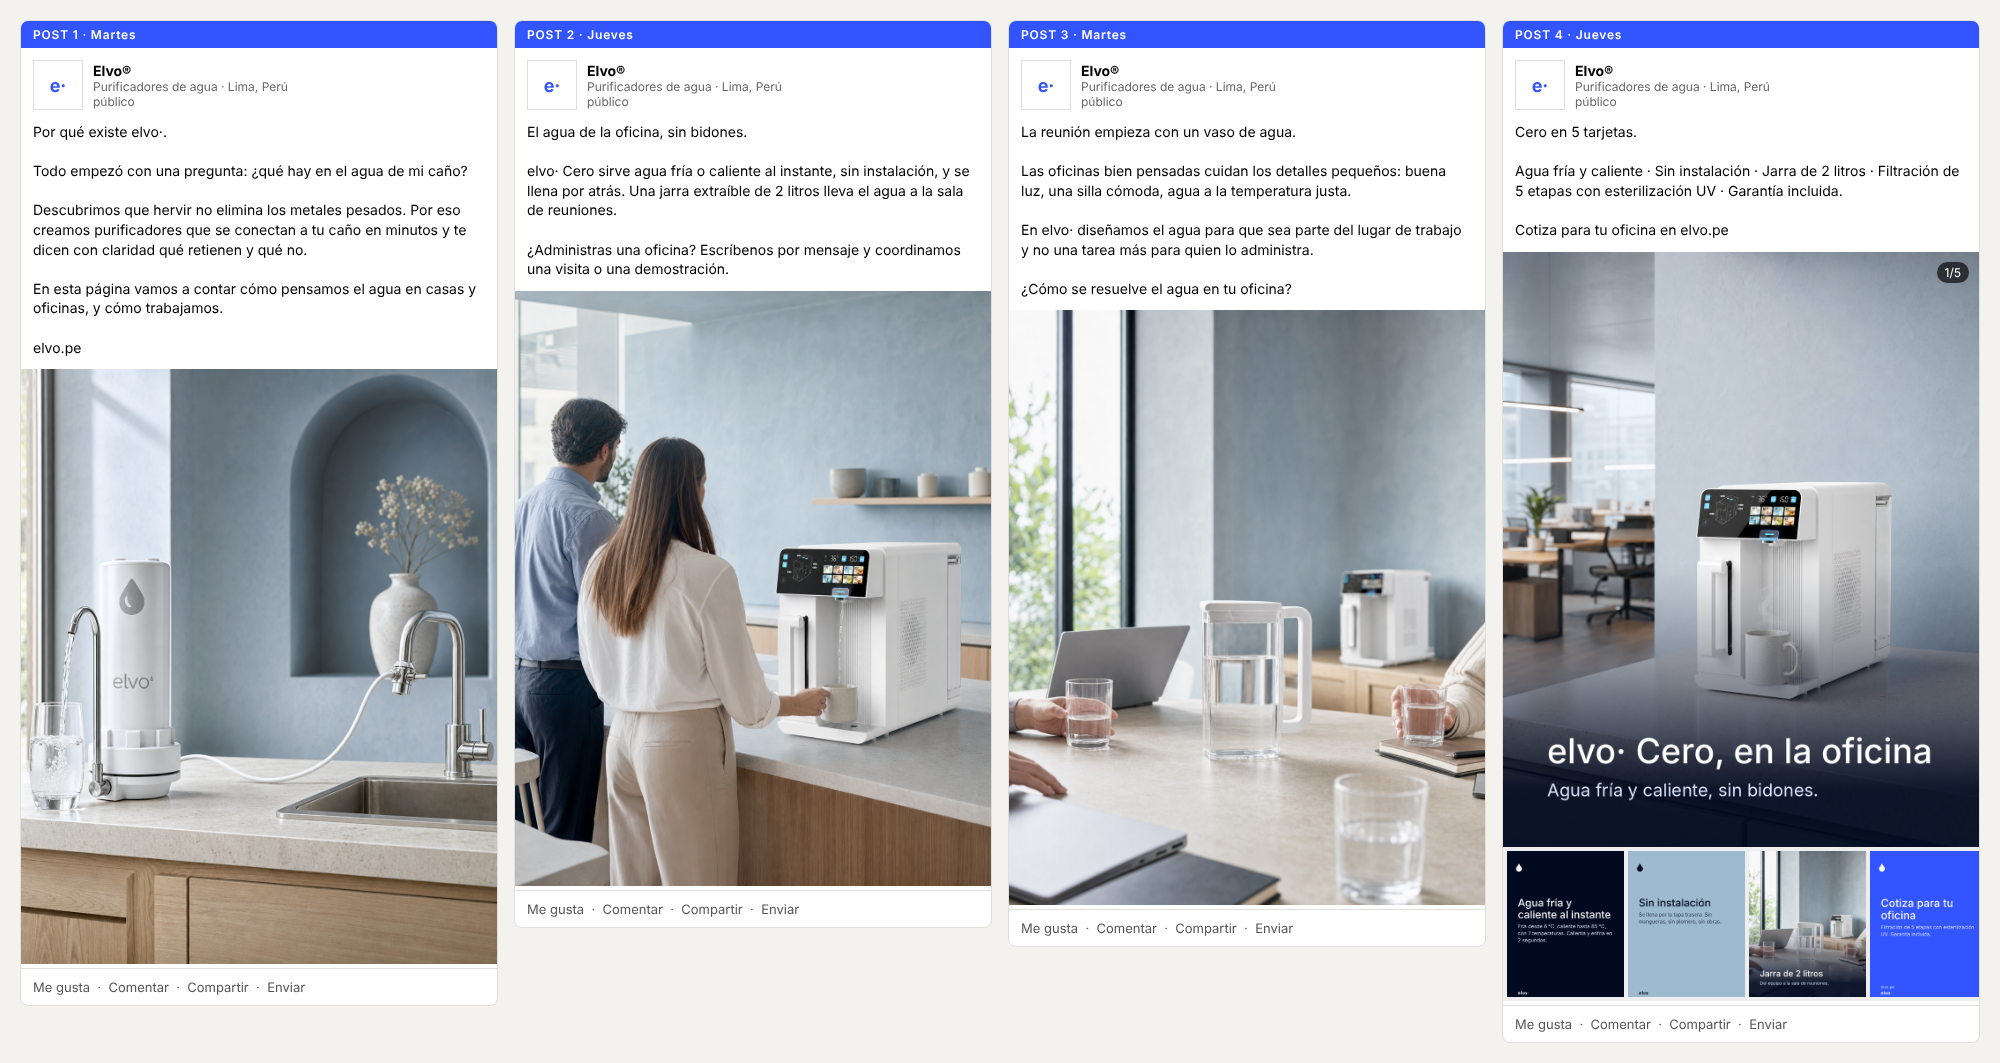
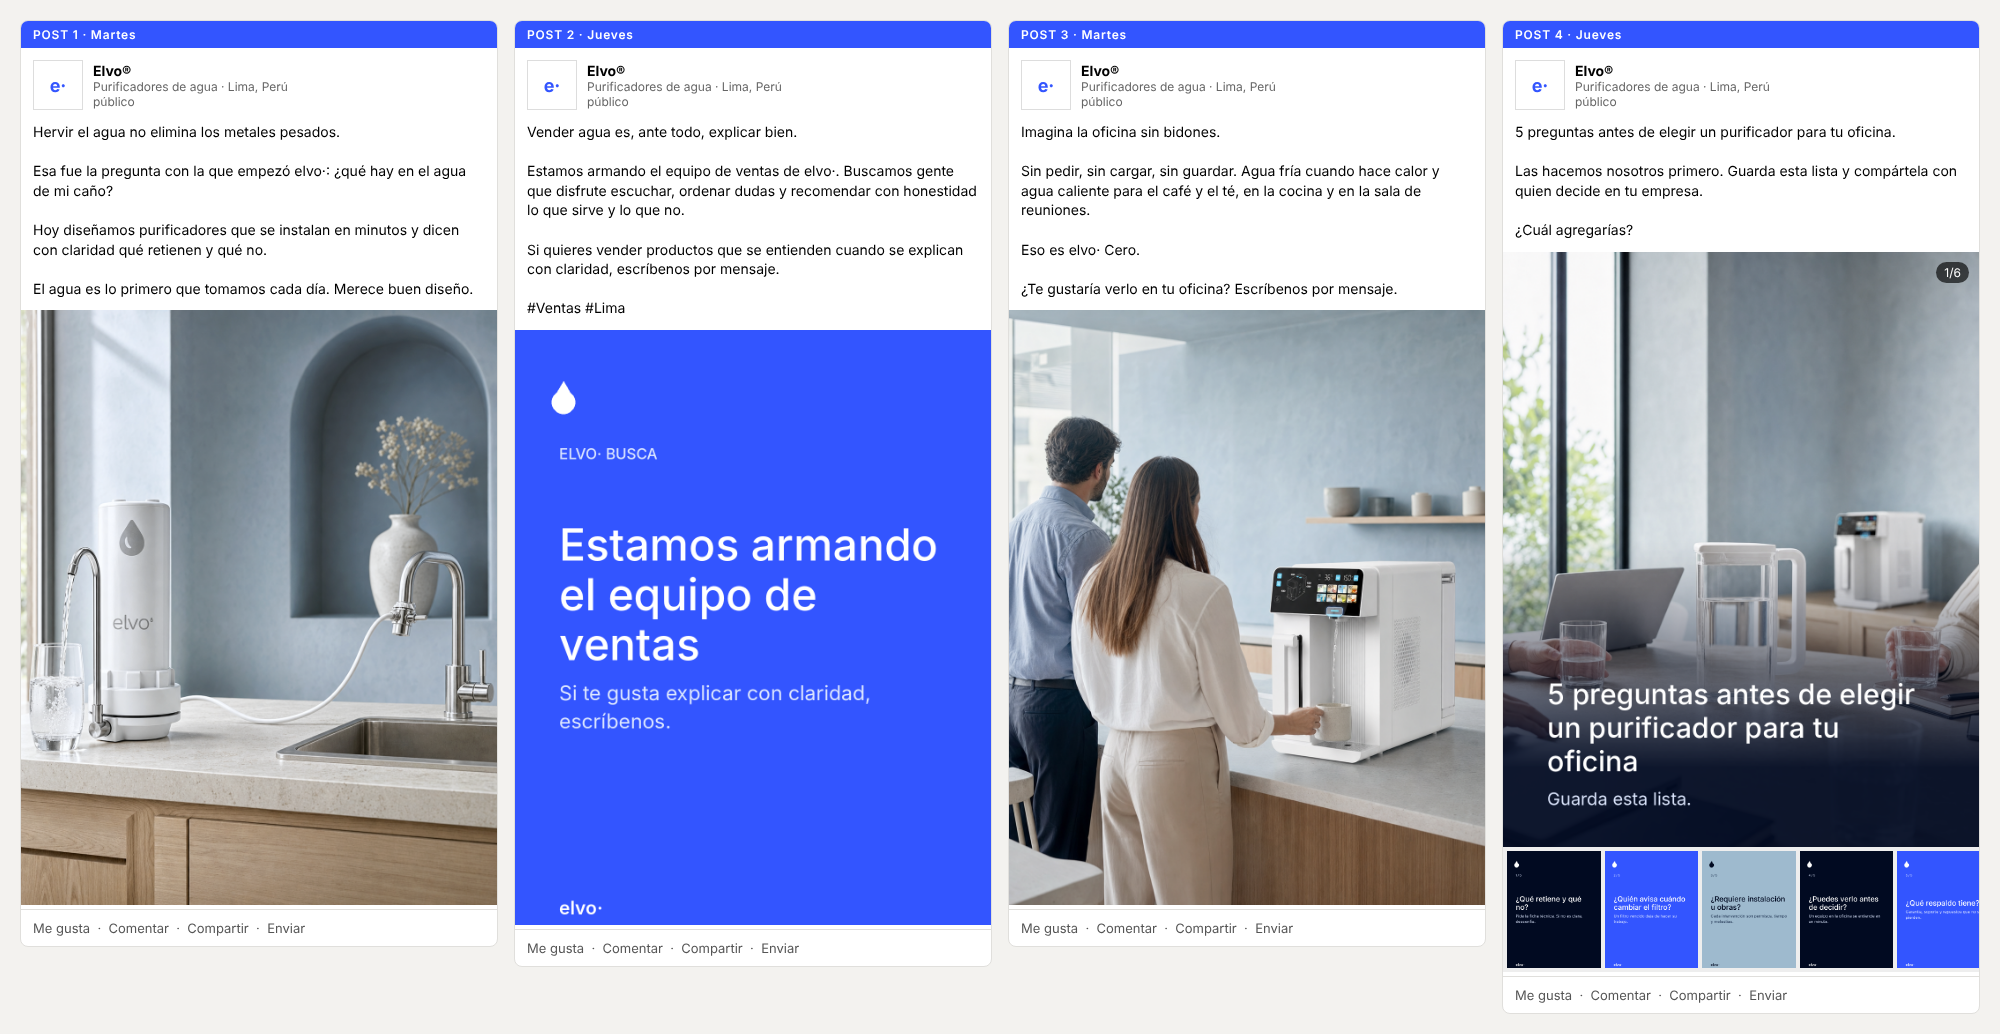
Shorten LinkedIn posts, add sales-team hiring and industry-reference carousel
Claude-Session: https://claude.ai/code/session_01KqWRwwvhWsRXgfpRqYSR3B

diff --git a/brands/elvo/content/linkedin-plan.md b/brands/elvo/content/linkedin-plan.md
@@ -62,17 +62,18 @@ Post → mensaje de LinkedIn o formulario en **elvo.pe** → llamada o visita co
 - **Voz de las personas:** que el fundador y el equipo compartan los posts desde sus perfiles; LinkedIn mueve más lo que viene de personas que de páginas.
 - **Datos que faltan** (los define el equipo): roles que buscan, forma de trabajo (presencial o híbrida), qué valoran, correo para recibir CVs.
 
-## 10. Los 8 primeros posts (versión final, ver preview)
+## 10. Los 8 primeros posts (versión corta, ver preview)
+Tono: breve, evocador, una idea por post, sin ficha técnica. Buscan **equipo de ventas** (búsqueda activa, la página ya lo indica).
 | # | Día | Idea | Imagen |
 |---|---|---|---|
-| 1 | Mar | Por qué existe elvo· (la pregunta sobre el agua del caño y el compromiso con la claridad) | Nativo conectado al caño |
-| 2 | Jue | El agua de la oficina, sin bidones (Cero: fría y caliente, sin instalación, jarra de 2 L) | Dos colegas en la cocina de oficina |
-| 3 | Mar | La reunión empieza con un vaso de agua (idea de oficina bien pensada) | Sala de reuniones con la jarra de 2 L |
-| 4 | Jue | Cero en 5 tarjetas (fría y caliente · sin instalación · jarra · 5 etapas con UV · garantía incluida) | Carrusel de 5 imágenes |
-| 5 | Mar | Cómo decidimos en elvo· (claridad y aviso de cambio de núcleo) | Solo texto [falta un ejemplo real] |
-| 6 | Jue | Menos bidones, menos pedidos, menos plástico (el ciclo del bidón) | Escritorio con taza y vaso [falta una cifra propia] |
-| 7 | Mar | Siempre queremos conocer gente curiosa por el agua | Tarjeta azul [falta roles y correo] |
-| 8 | Jue | Lo que dicen quienes lo instalan (reseña de María G., Lima) | Producto con la cita sobre la imagen |
+| 1 | Mar | "Hervir el agua no elimina los metales pesados": por qué existe elvo· | Nativo conectado al caño |
+| 2 | Jue | **Vender agua es explicar bien: estamos armando el equipo de ventas** | Tarjeta azul |
+| 3 | Mar | "Imagina la oficina sin bidones" (deseo de Cero) | Colegas en la cocina de oficina |
+| 4 | Jue | **Referente:** 5 preguntas antes de elegir un purificador para tu oficina | Carrusel de 6 láminas |
+| 5 | Mar | Cómo decidimos en elvo· (claridad) | Solo texto [falta ejemplo real] |
+| 6 | Jue | "El ciclo del bidón" (opinión + pregunta) | Escritorio con taza y vaso |
+| 7 | Mar | Un purificador para cada lugar donde el agua te toca (la familia) | Collage de 4 fotos de producto |
+| 8 | Jue | Reseña de María G., Lima | Producto con la cita |
 
 ## 11. Pendientes de datos
-Foto real del equipo o del espacio; ejemplo real para el post 5; cifra propia de bidones para el post 6 (solo si es atemporal); roles y correo para el post 7; casos de oficina de Lima con permiso; página elvo.pe/empresas; descripción y pestaña "Quiénes somos" de la página.
+Foto real del equipo o del espacio; ejemplo real para el post 5; el correo o la forma de recibir postulaciones de ventas; casos de oficina de Lima con permiso; página elvo.pe/empresas; descripción y pestaña "Quiénes somos" de la página.
